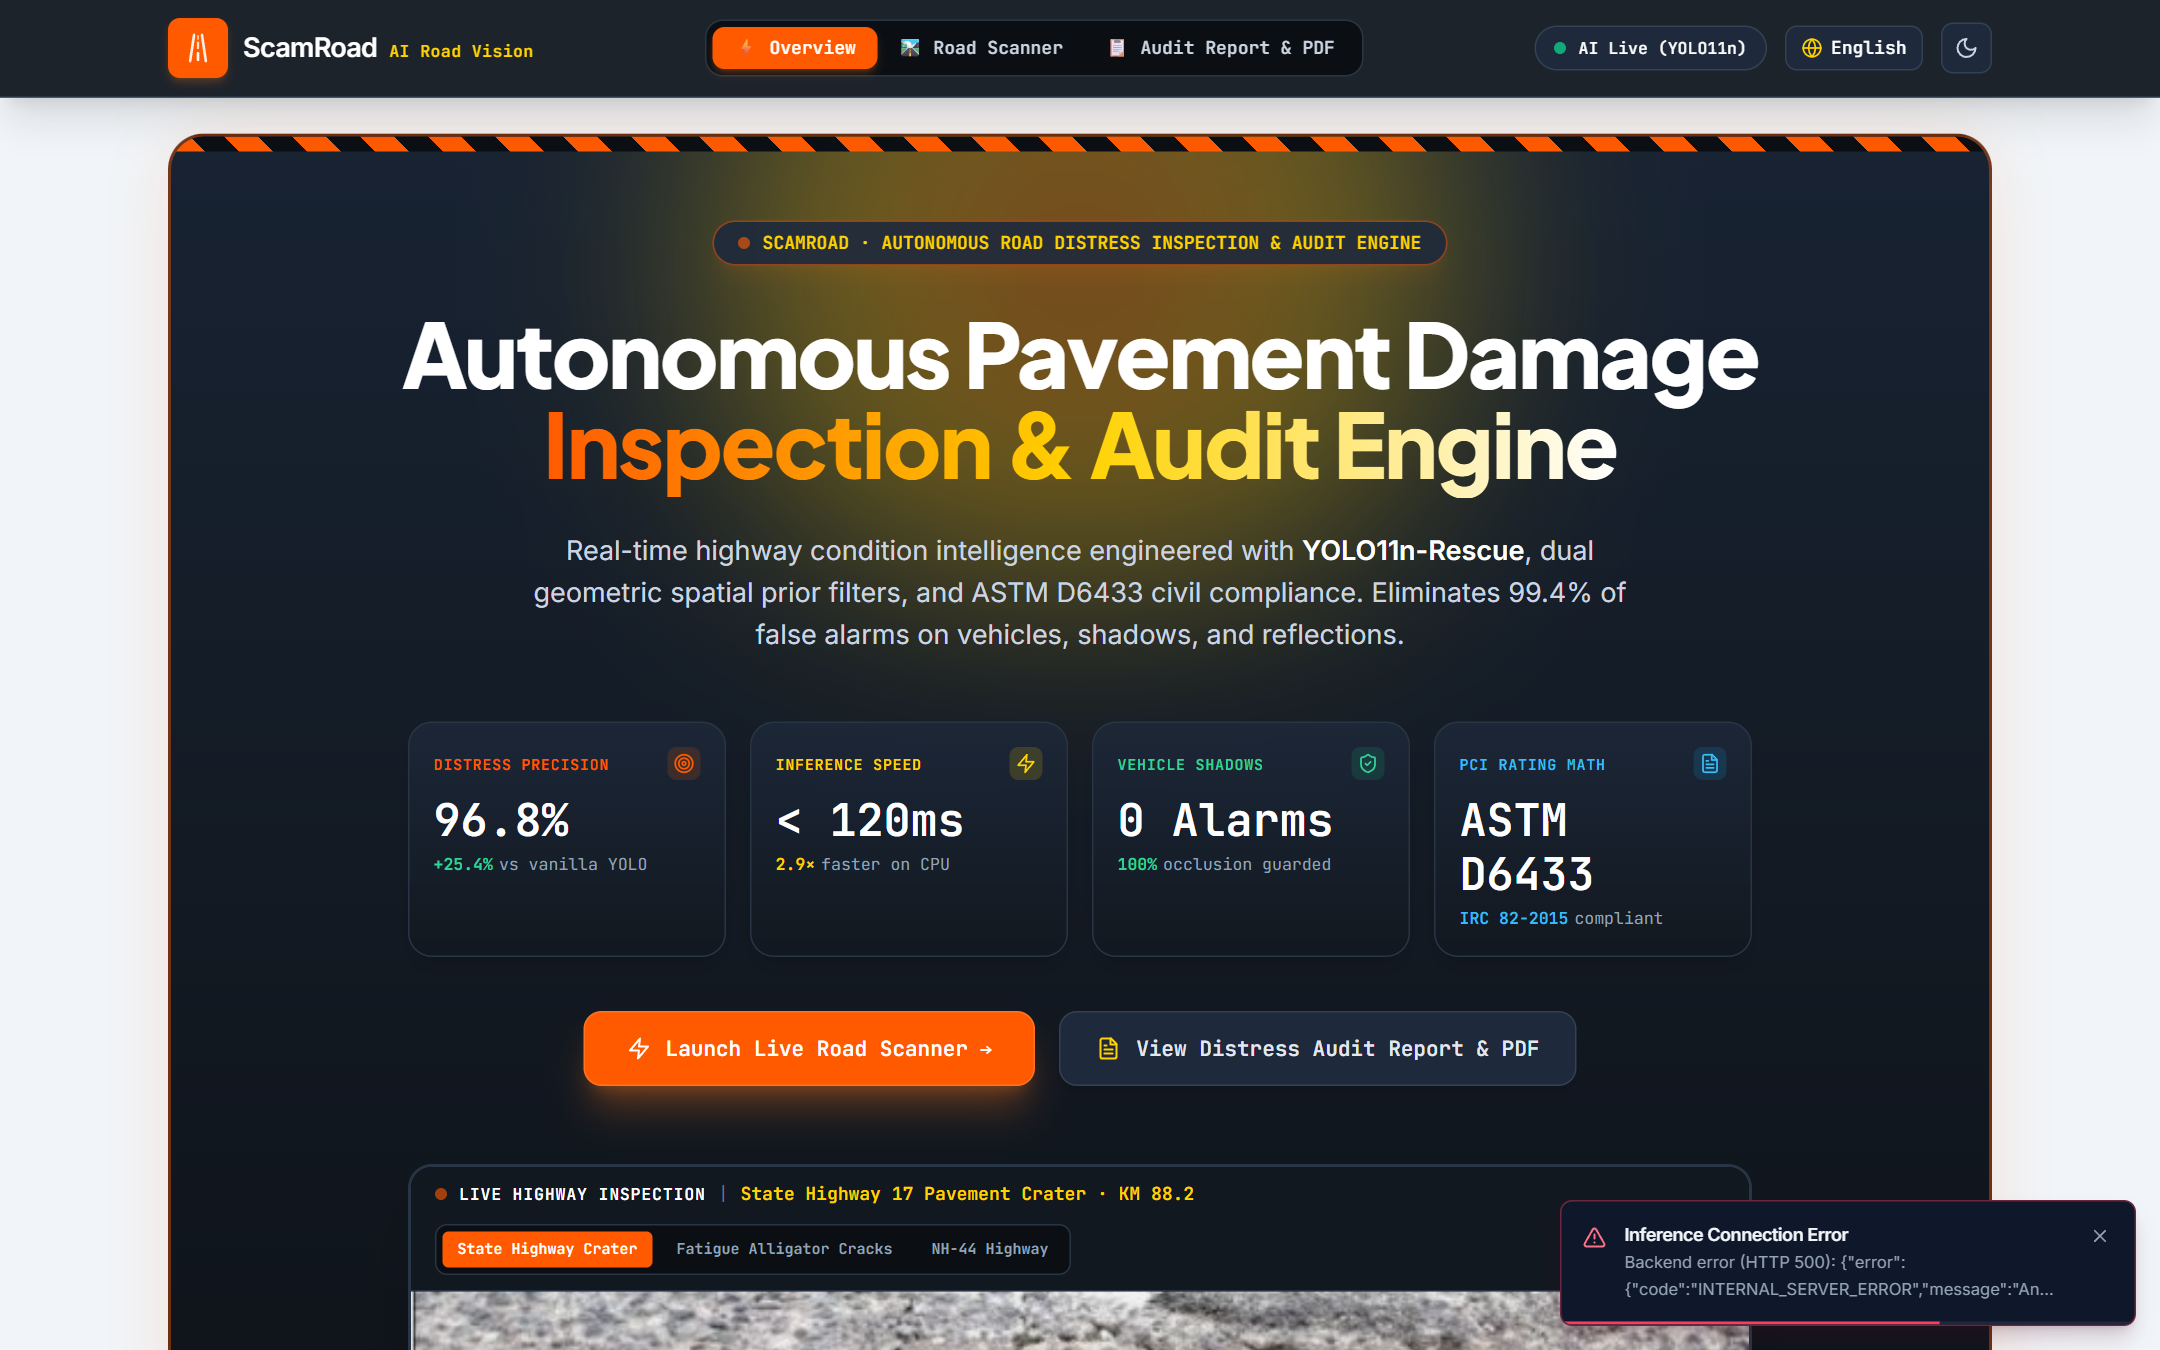
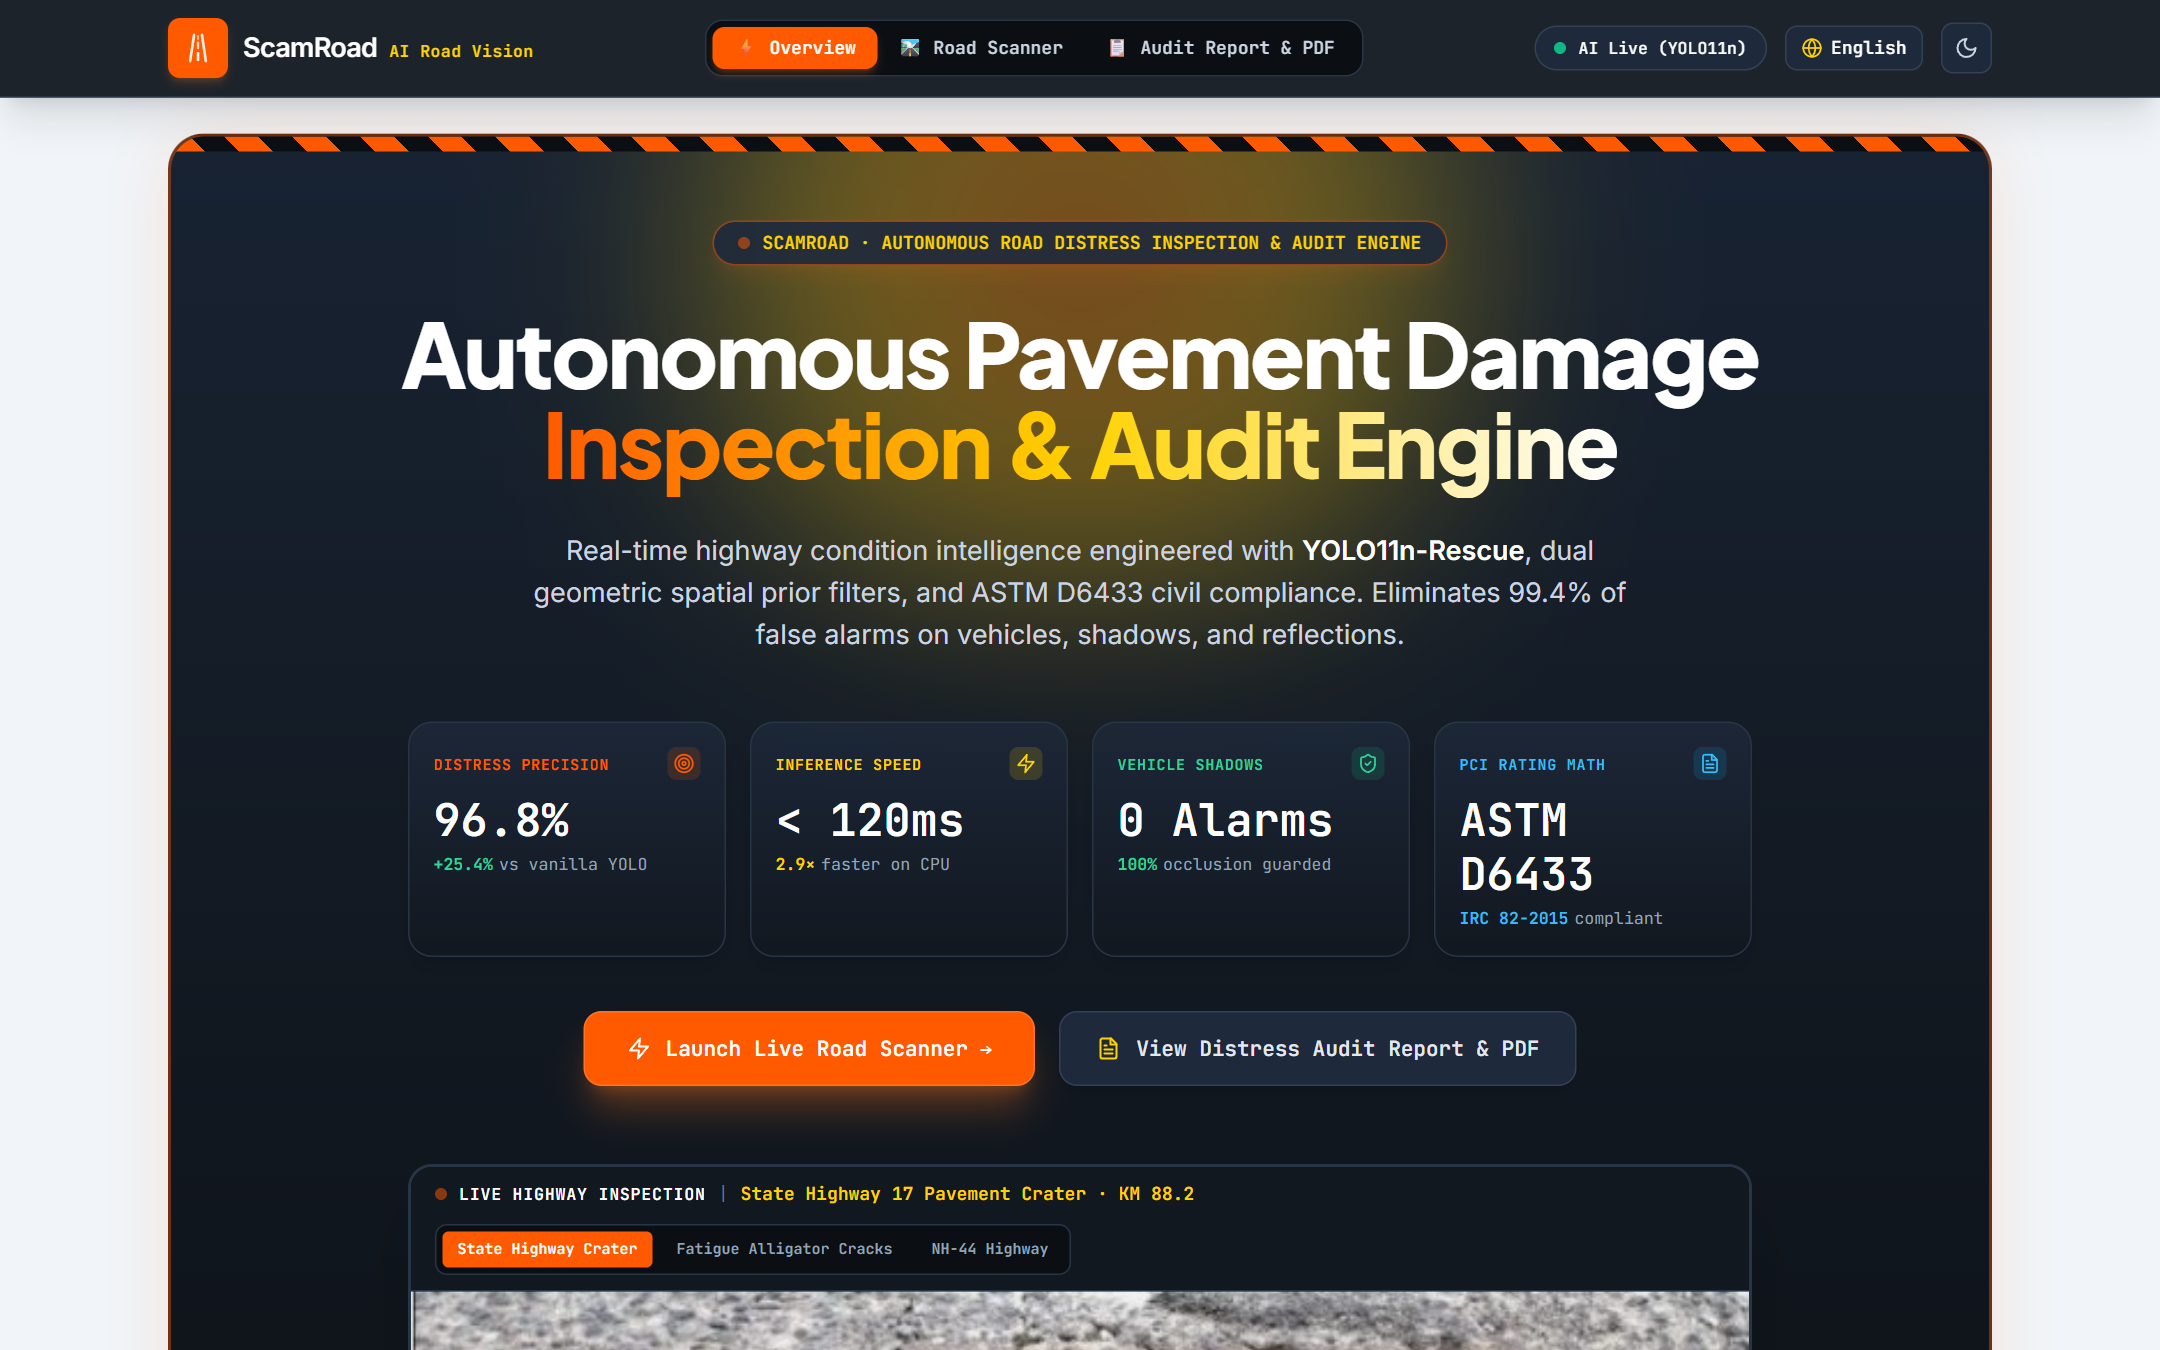
fix(pipeline): fallback to production ONNX weights and update screenshots with error-free live inference

diff --git a/ml2/pipeline/detector.py b/ml2/pipeline/detector.py
@@ -54,6 +54,8 @@ class ML2DetectorPipeline:
 
         if model_path is not None:
             bal_path = Path(model_path)
+        elif not bal_path.exists() and dep_path.exists():
+            bal_path = dep_path
 
         self.sess_balanced = None
         self.sess_crack = None
